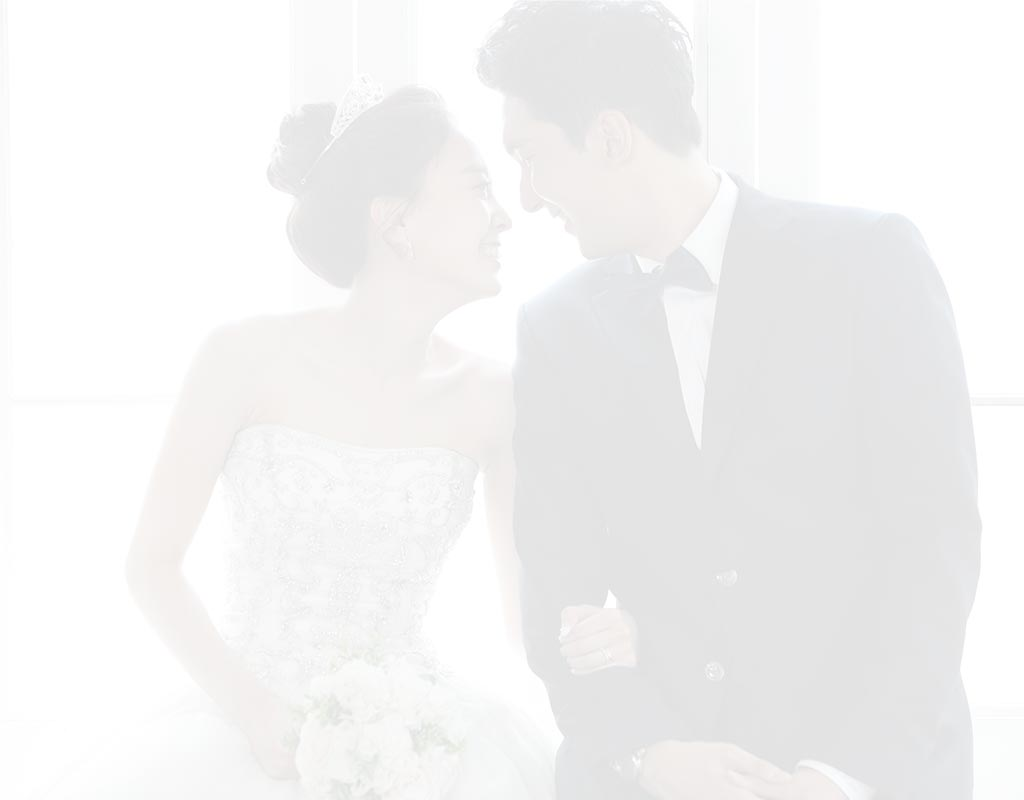
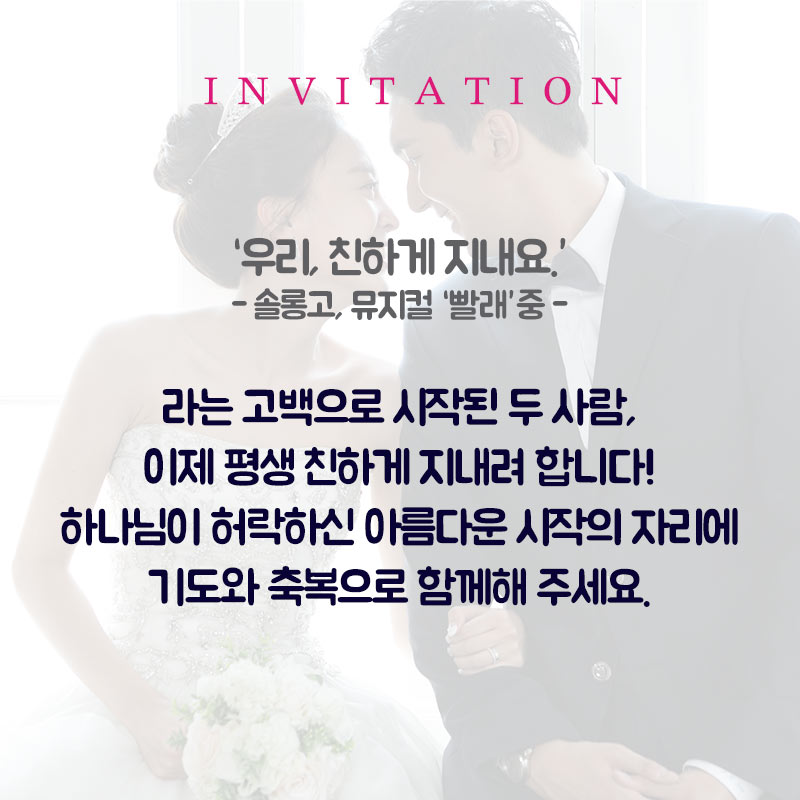
문구삽입

diff --git a/static/index.html b/static/index.html
@@ -65,12 +65,7 @@
 			
 		</div>
 	</div>
-	<div style="background:url('background.jpg'); background-size:100%">
-		<!-- <div class="pure-g">
-			<div class="pure-u-1-1" style="padding:30px 0">
-				문구영역
-			</div>
-		</div> -->
+	<div>
 		<div class="pure-g">
 			<div class="pure-u-1-3">
 		    	<div style="position:relative; width:100px; margin: 0 auto;">
@@ -84,7 +79,7 @@
 		    </div>
 		    <div class="pure-u-1-3">
 		    	<div style="width:100px; margin: 0 auto; padding-top:30px;">
-		    		<img src="fingerprint.png" width="100"/>	
+		    		<img src="fingerprint.jpg" width="100"/>	
 		    	</div>
 		    </div>
 		    <div class="pure-u-1-3">
@@ -98,19 +93,20 @@
 		 	   </div>
 		 	</div>
 		</div>
+		<div>
+			<img src="invitation.jpg" width="100%"/>
+		</div>
 	</div>
-	<div id="map_div"></div>
-	<div class="pure-g" style="padding:30px 0">
+	<div id="map_div" style="border-top:solid 1px #ccc"></div>
+	<div class="pure-g" style="padding:0 0 30px 0;">
 	    <div class="pure-u-1-2">
-	    	<button id="tmap_go" class="pure-button button-success" style="width:100%;">
-	    		<img src="icon_tmap.png" width="50" style="padding-bottom:8px" /><br>
-	    		<img src="text_nav_tmap.png" width="70" />
+	    	<button id="tmap_go" class="pure-button button-success" style="width:100%; border:1px solid #ccc">
+	    		<img src="icon_tmap.png" width="130"/><br>
 	    	</button>
 	    </div>
 	    <div class="pure-u-1-2">
-	    	<a href="http://map.daum.net/link/to/21354937" class="pure-button button-success" style="width:100%;">
-				<img src="icon_daummap.png" width="50" style="padding-bottom:8px"/><br>
-	    		<img src="text_nav_dmap.png" width="70" />
+	    	<a href="http://map.daum.net/link/to/21354937" class="pure-button button-success" style="width:100%; border:1px solid #ccc; border-left: 0">
+				<img src="icon_daummap.png" width="130"/><br>
 	    	</a>
 	    </div>
 	</div>
